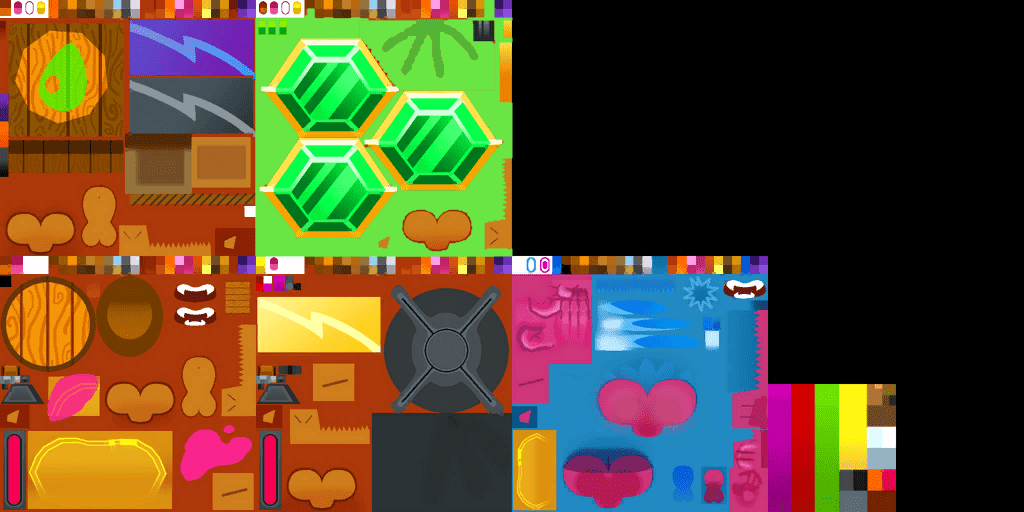
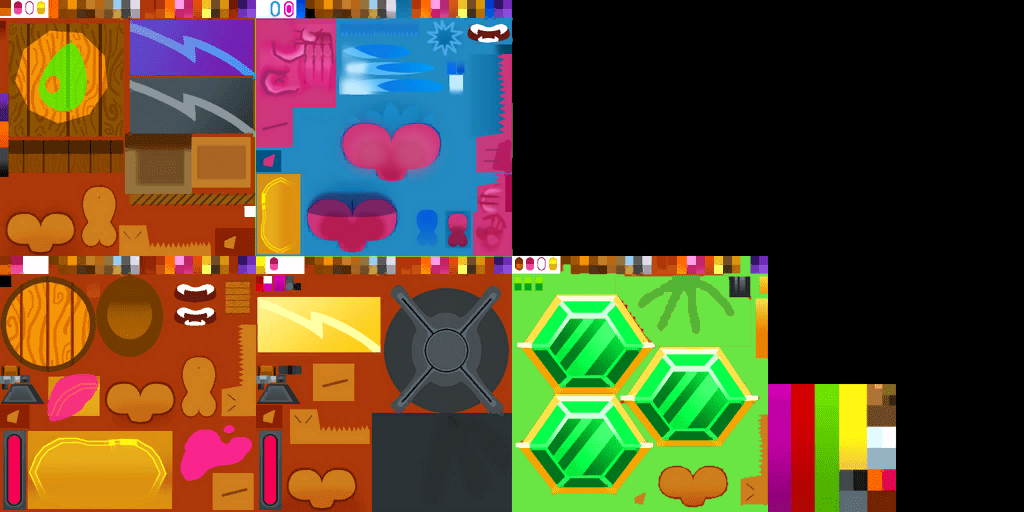
Fix Display Models

Changed region(s): [[0.5, 0.5, 0.75, 1.0], [0.25, 0.0, 0.5, 0.5]]

diff --git a/CardMonkey.cs b/CardMonkey.cs
@@ -2,9 +2,9 @@
 using System.Linq;
 using Assets.Scripts.Models.Towers;
 using Assets.Scripts.Models.TowerSets;
+using Assets.Scripts.Unity;
 using BTD_Mod_Helper.Api.Towers;
 using BTD_Mod_Helper.Extensions;
-using CardMonkey.Displays;
 using CardMonkey.Displays.Projectiles;
 
 namespace CardMonkey
@@ -33,10 +33,9 @@ namespace CardMonkey
             towerModel.range += 10;
             var attackModel = towerModel.GetAttackModel();
             attackModel.range += 10;
-            
-            
+
             var projectile = attackModel.weapons[0].projectile;
-            projectile.ApplyDisplay<RedCardDisplay>();  // Make the projectiles look like Cards
+            projectile.ApplyDisplay<RedCardDisplay>(); // Make the projectiles look like Cards
             projectile.pierce += 2;
         }
 

diff --git a/Upgrades/TopPath/Pair.cs b/Upgrades/TopPath/Pair.cs
@@ -9,12 +9,16 @@ namespace CardMonkey.Upgrades.TopPath
 {
     public class Pair : ModUpgrade<CardMonkey>
     {
+        // public override string Portrait => "Don't need to override this, using the default of Pair-Portrait.png";
+        // public override string Icon => "Don't need to override this, using the default of Pair-Icon.png";
+
         public override int Path => TOP;
         public override int Tier => 1;
         public override int Cost => 500;
         
+        // public override string DisplayName => "Don't need to override this, the default turns it into 'Pair'"
+        
         public override string Description => "Throws two cards at a time";
-
 
         public override void ApplyUpgrade(TowerModel tower)
         {

diff --git a/Displays/Tier5/RoyalFlushDisplay.cs b/Displays/Tier5/RoyalFlushDisplay.cs
@@ -1,7 +1,9 @@
 using Assets.Scripts.Models.Towers;
 using Assets.Scripts.Unity.Display;
+using Assets.Scripts.Utils;
 using BTD_Mod_Helper.Api.Display;
 using BTD_Mod_Helper.Extensions;
+using MelonLoader;
 
 namespace CardMonkey.Displays.Tier5
 {
@@ -16,6 +18,8 @@ namespace CardMonkey.Displays.Tier5
 
         public override void ModifyDisplayNode(UnityDisplayNode node)
         {
+            // node.SaveMeshTexture(0);
+            // node.SaveMeshTexture(1);
             // node.PrintInfo();
             
             // Remove the potion in hand

diff --git a/Displays/CardMonkeyMultiDisplay.cs b/Displays/CardMonkeyMultiDisplay.cs
@@ -62,10 +62,10 @@ namespace CardMonkey.Displays
         {
             if (t.Sum() == 0)  // Temporarily use the base display for all tier 3-4 crosspaths
             {
-                return tiers.Max() > 2 && tiers.Max() < 5;
+                return /*tiers.Max() > 2 && */ tiers.Max() < 5;
             }
 
-            return tiers.SequenceEqual(t);
+            return false; //tiers.SequenceEqual(t);
         }
         
         /// <summary>

diff --git a/Displays/Tier5/TFDisplay.cs b/Displays/Tier5/TFDisplay.cs
@@ -18,8 +18,8 @@ namespace CardMonkey.Displays.Tier5
 
         public override void ModifyDisplayNode(UnityDisplayNode node)
         {
-            //node.SaveMeshTexture();
-            //node.PrintInfo();
+            // node.SaveMeshTexture(); used this to get the texture to edit
+            //node.PrintInfo(); used this to get the bone names and other info
             
             node.RemoveBone("SuperMonkeyRig:Dart");
 

diff --git a/Main.cs b/Main.cs
@@ -1,7 +1,7 @@
 using BTD_Mod_Helper;
 using MelonLoader;
 
-[assembly: MelonInfo(typeof(CardMonkey.Main), "Card Monkey", "0.1.0", "doombubbles")]
+[assembly: MelonInfo(typeof(CardMonkey.Main), "Card Monkey", "0.1.1", "doombubbles")]
 [assembly: MelonGame("Ninja Kiwi", "BloonsTD6")]
 namespace CardMonkey
 {

diff --git a/Displays/Tier5/AceOfSpadesDisplay.cs b/Displays/Tier5/AceOfSpadesDisplay.cs
@@ -16,6 +16,8 @@ namespace CardMonkey.Displays.Tier5
 
         public override void ModifyDisplayNode(UnityDisplayNode node)
         {
+            // node.SaveMeshTexture(0);
+            // node.SaveMeshTexture(1);
             //node.SaveMeshTexture();
             //node.PrintInfo();
             

diff --git a/README.md b/README.md
@@ -21,4 +21,6 @@ Yet to Come:
 
 **Changelog**
 
+v0.1.1 Fix Display Models
+
 v0.1.0 Pre Release
